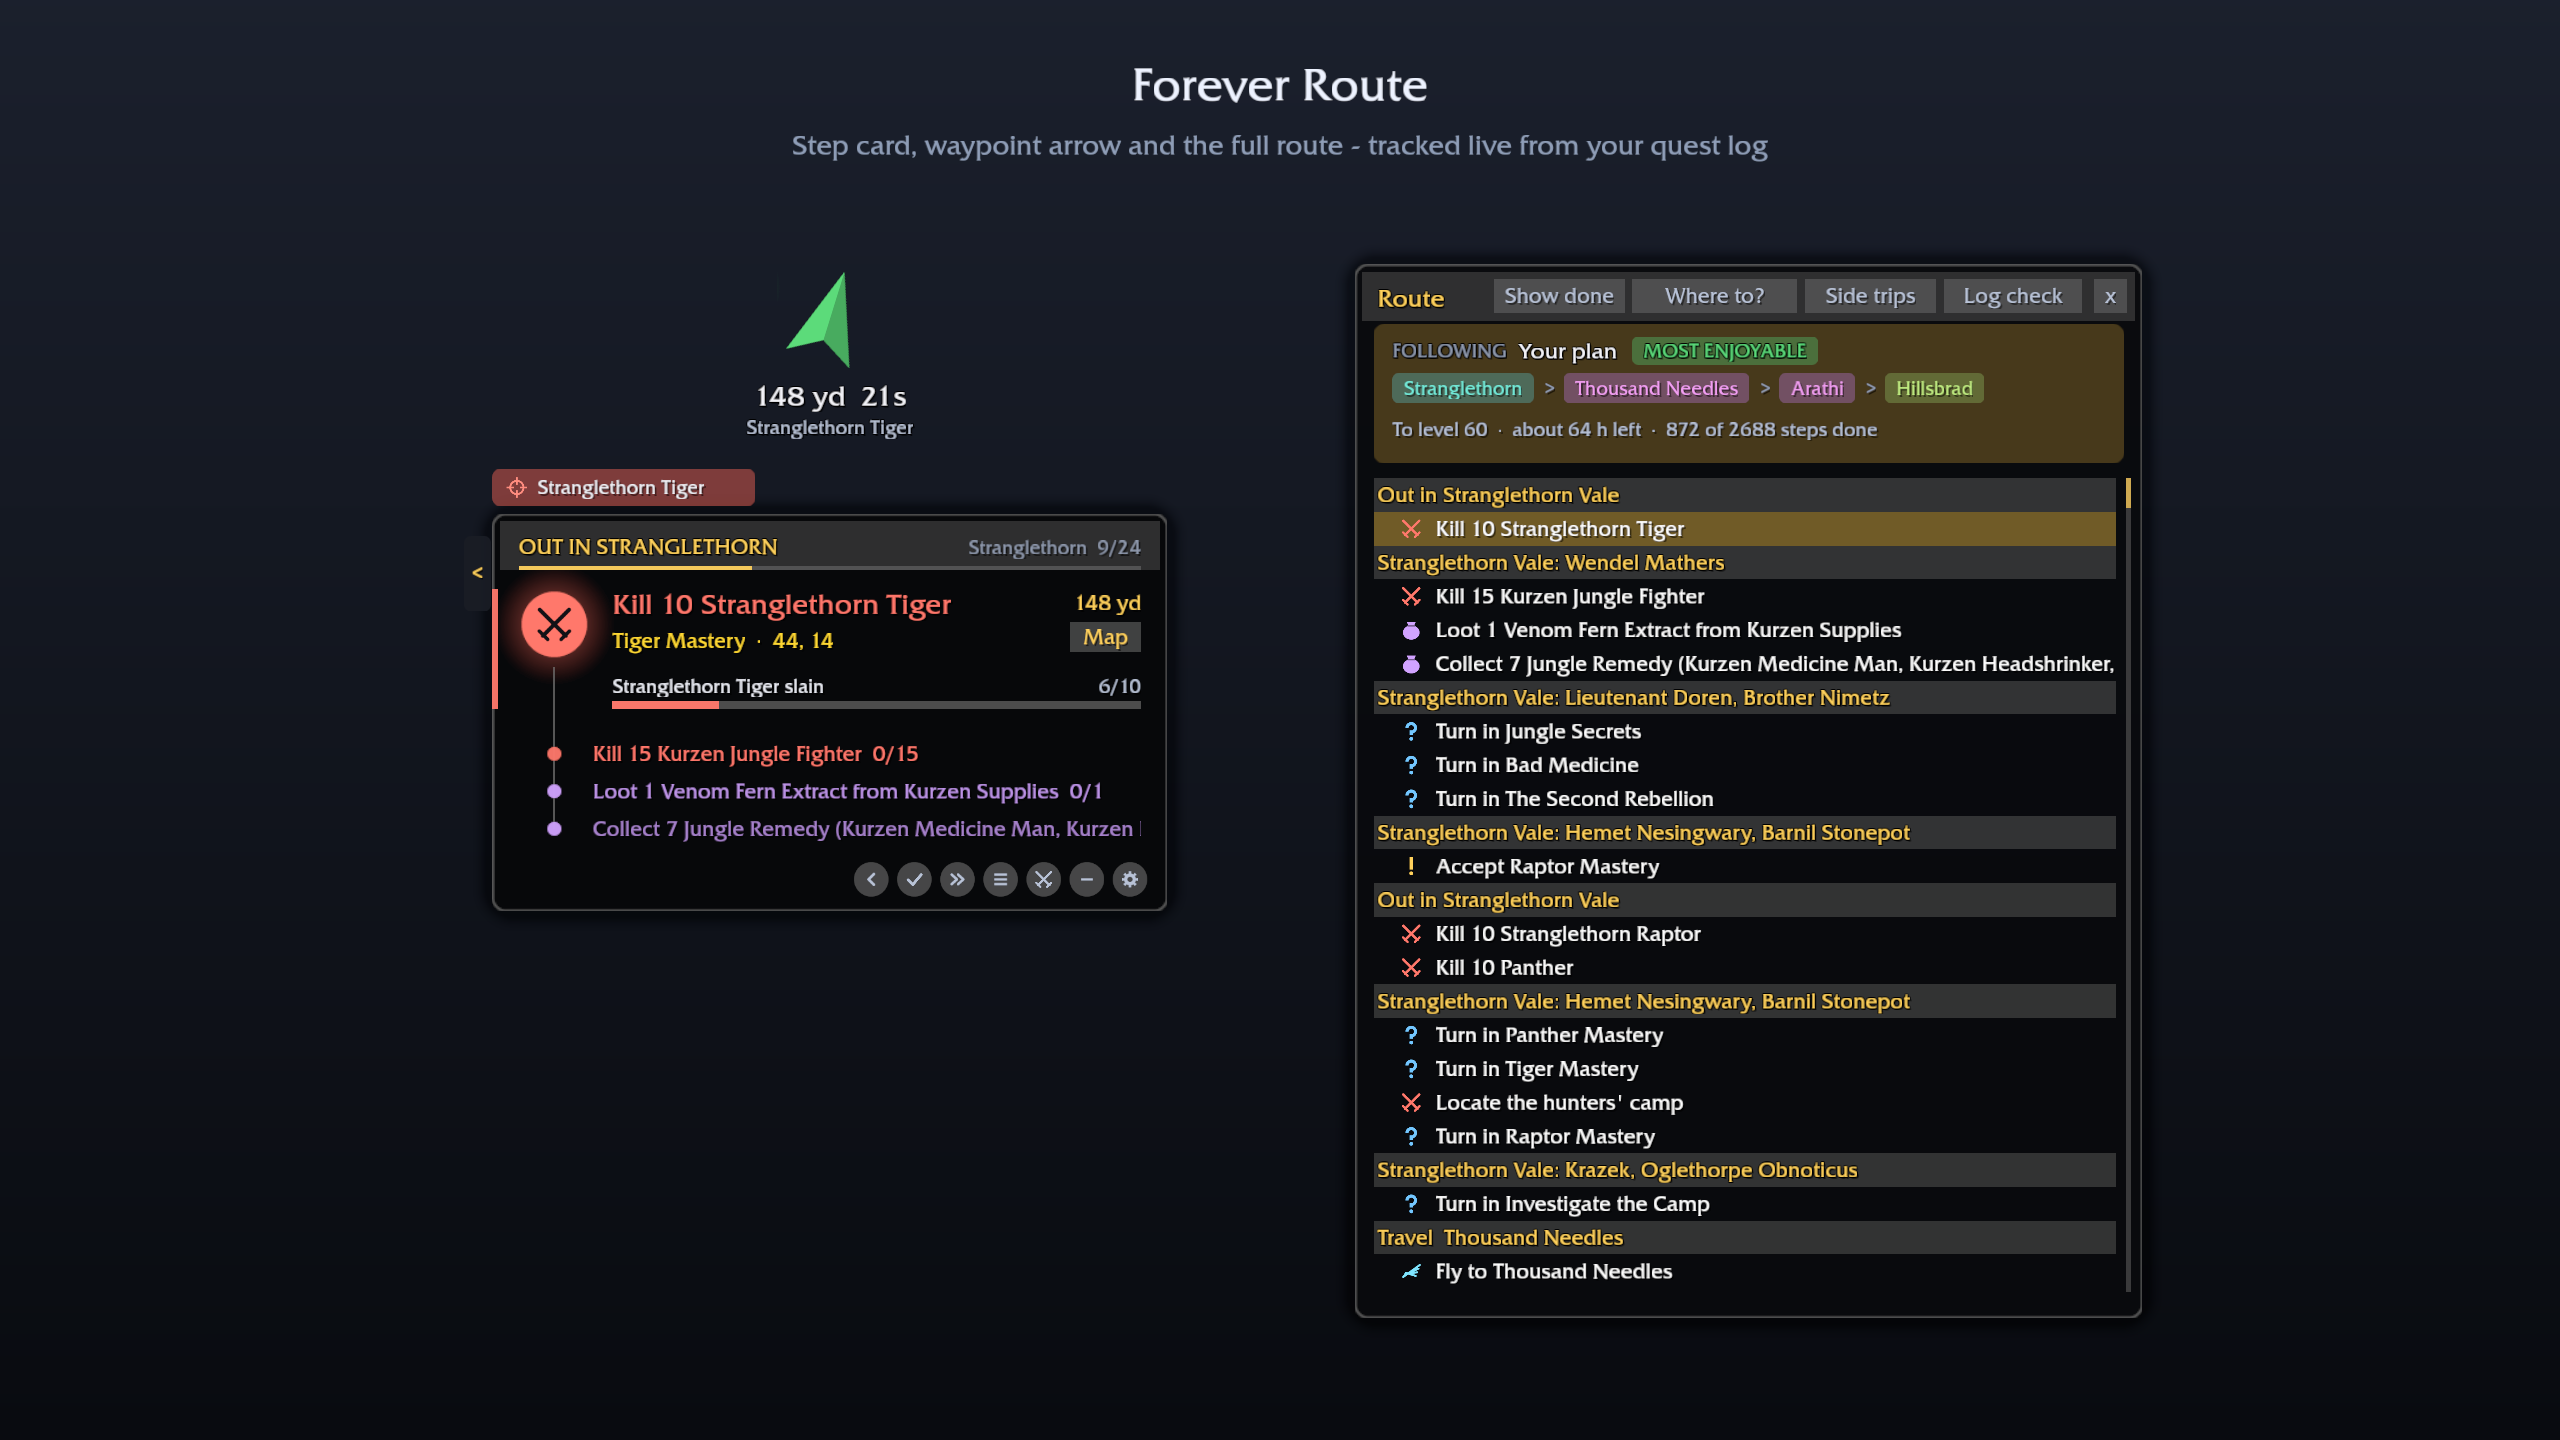
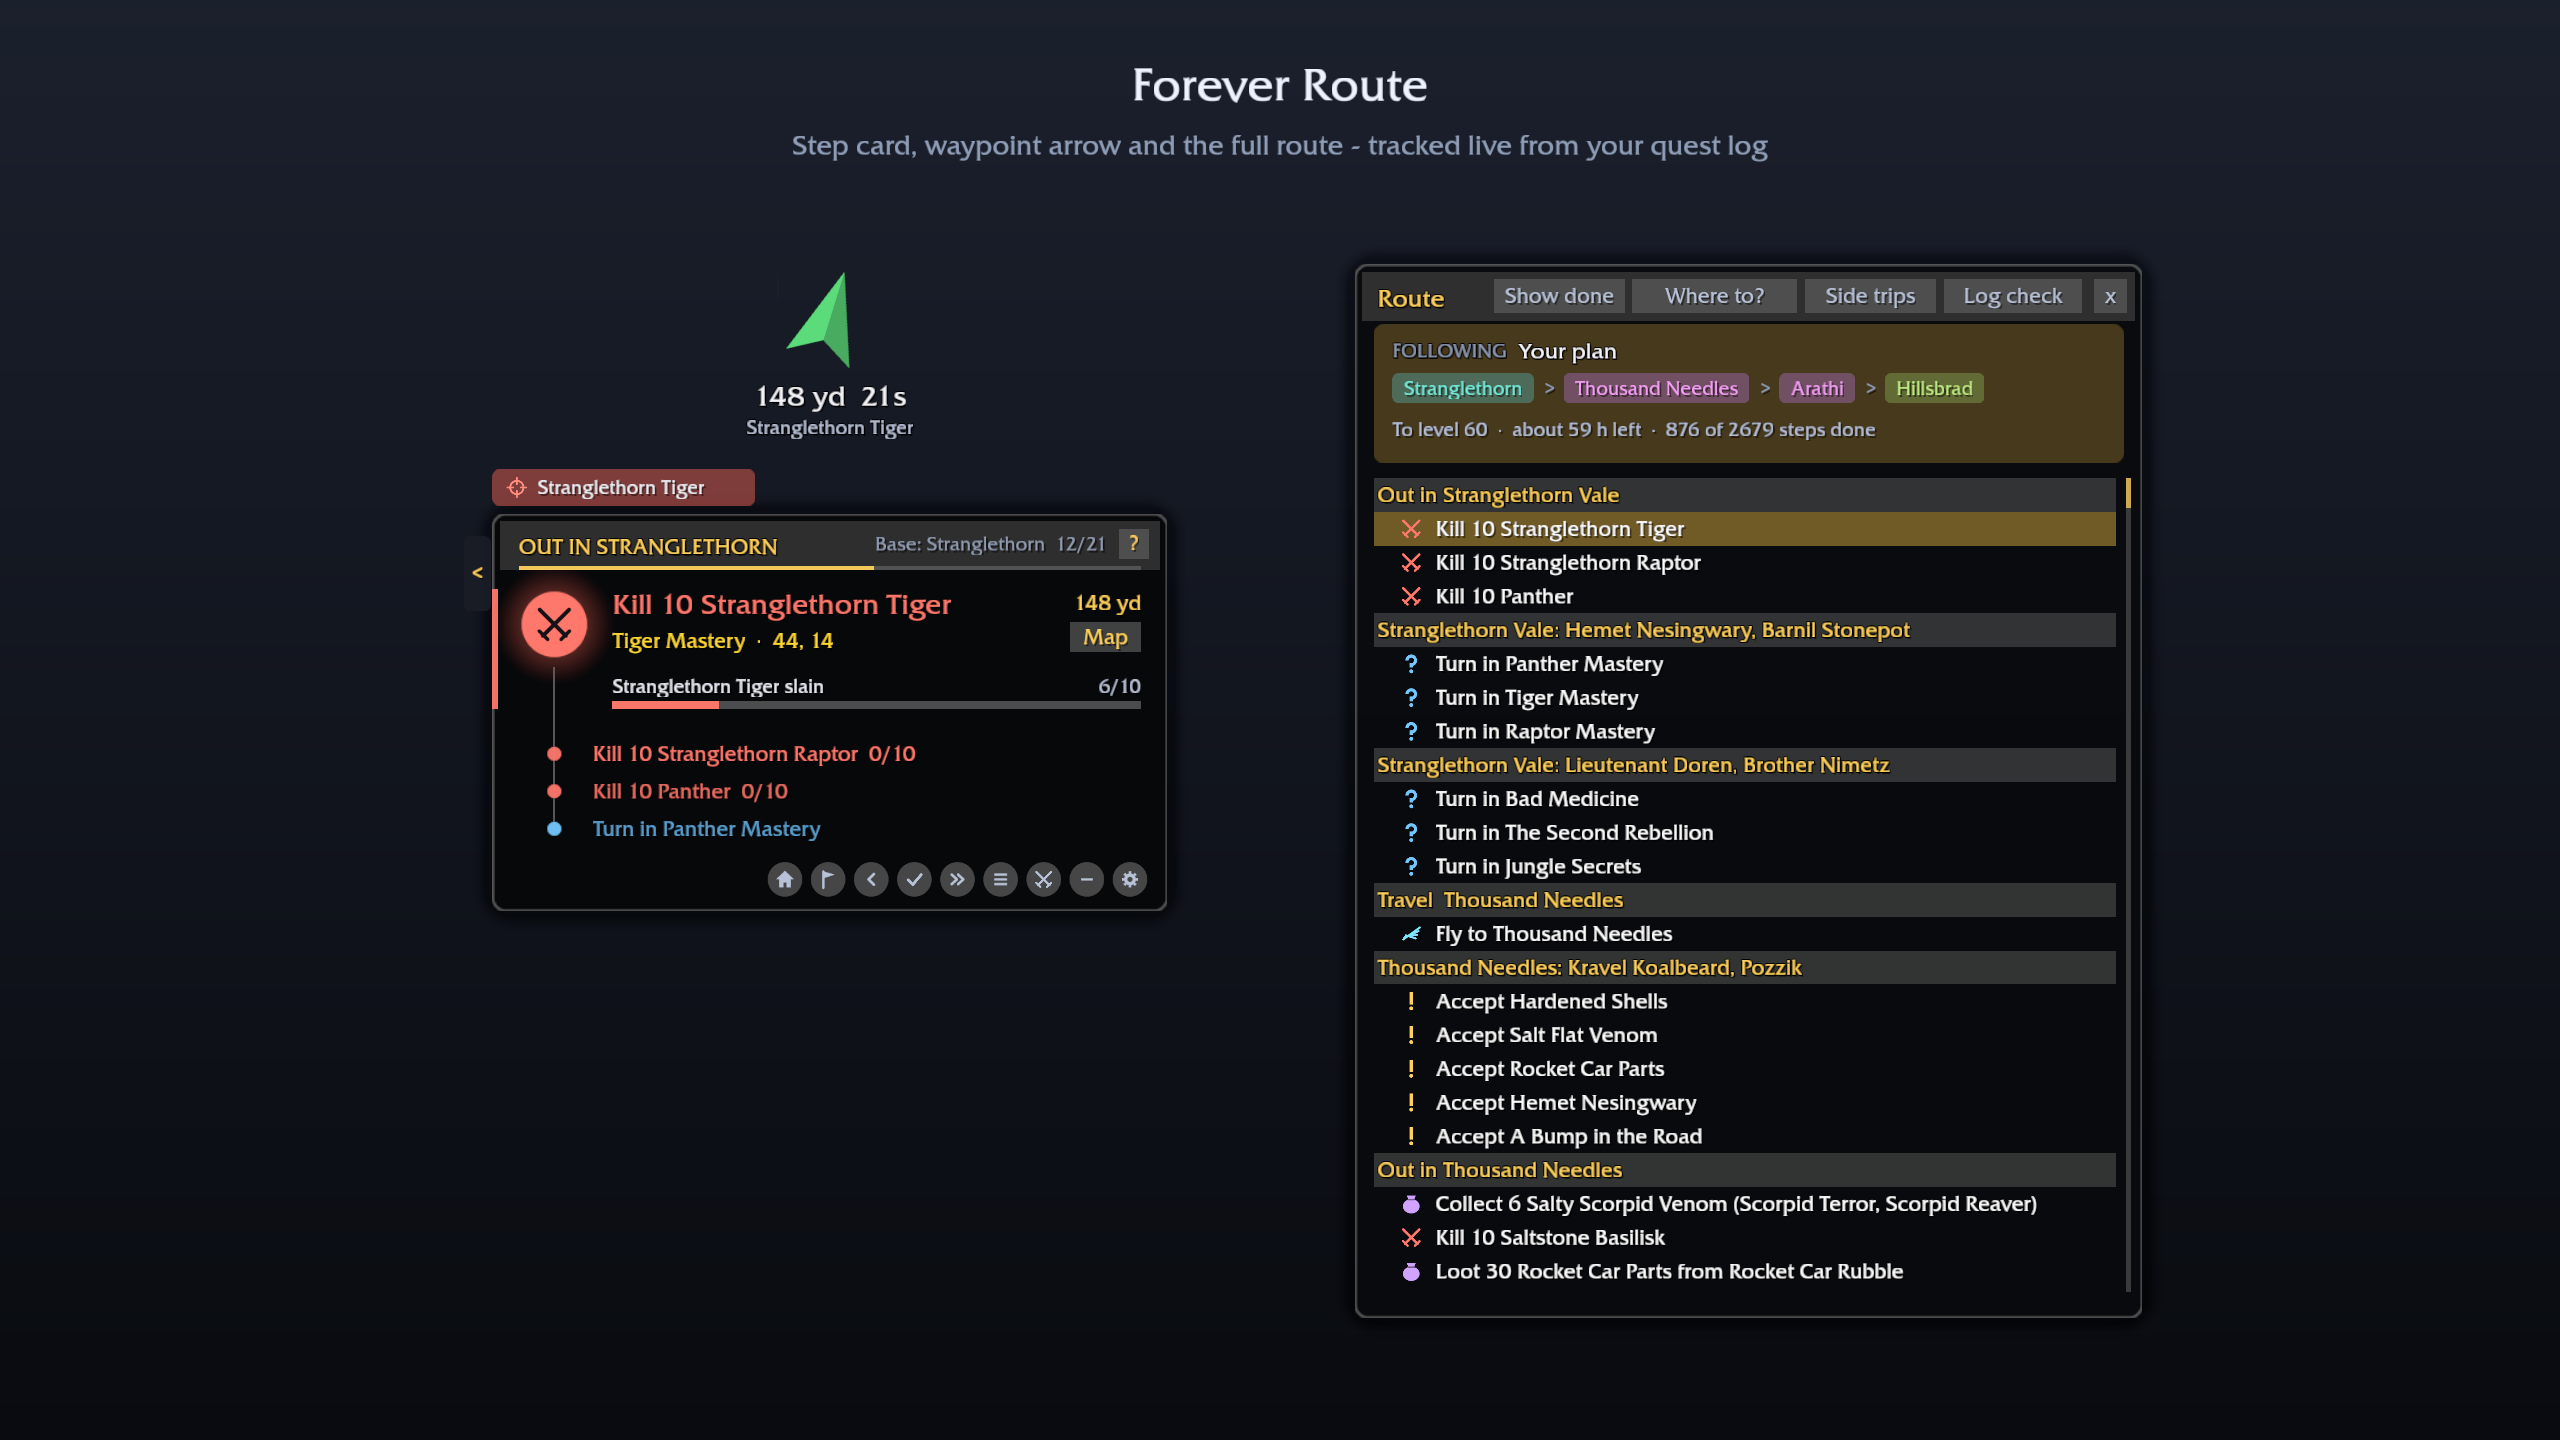
Forever Route 1.7.0

diff --git a/docs/curseforge.md b/docs/curseforge.md
@@ -8,7 +8,7 @@ A step card, a waypoint arrow and map pins tell you exactly what to do next: wha
 
 ## The card
 
-The next thing to do, always on screen. It reads your quest log live, counts kills and loot, ticks steps off as you play, and fits in hand-ins you finished early when you pass by. Skip a quest or a dungeon and the route keeps up. Inside a dungeon it shows that dungeon's quests with live progress.
+The next thing to do, always on screen. It reads your quest log live, counts kills and loot, ticks steps off as you play, and fits in hand-ins you finished early when you pass by. Skip a quest or a dungeon and the route keeps up. Inside a dungeon it shows that dungeon's quests with live progress. Wondering why it sent you somewhere? The **?** on the card says why, in a line.
 
 ![The card, step by step](https://raw.githubusercontent.com/noopz/ForeverRoute/main/docs/img/card.gif)
 
@@ -23,6 +23,7 @@ Bored of a zone? Pick another. **Where to?** (the route window, or `/fr paths`) 
 - **A plan for every race and class (56 in all)**, 1 to 60, through Forever's new zones (Riverglades, Shen'dralas), with no grinding
 - **Class quests built in**: Redemption and the Warhorse for paladins, warlock pets, druid forms, shaman totems, warrior stances, rogue poisons - as side trips you choose
 - **The waypoint arrow and map pins**, which walk you to every stop, along the roads and around hostile camps
+- **The game's own 3D navigation marker** on every stop, with the yards to it (hidden on Forever; the addon turns it on)
 - **Travel that knows the world**: flight paths, boats, zeppelins, the tram, hearthstone, mage and druid teleports, and the Skyborne skyship; a long walk becomes a flight when that's clearly faster
 - **A target key**: one key targets the step's NPC and marks it with a star (Keybindings > AddOns > Forever Route Targeting)
 - **Optional quest automation**: accept your route's quests and hand in finished ones (never when there's a reward to choose), with best-reward hints

diff --git a/README.md b/README.md
@@ -10,6 +10,7 @@ play: your plan loads by itself, quests you've already done are skipped, and it 
 
 **The next thing to do, always on screen.** It reads your quest log live, counts kills and loot, ticks steps off as you
 play, and fits in hand-ins you finished early when you pass by. Skip a quest or a dungeon and the route keeps up.
+The **?** on the card says why it picked a step, and the game's 3D navigation marker shows where to go.
 
 ![The card, step by step](docs/img/card.gif)
 
